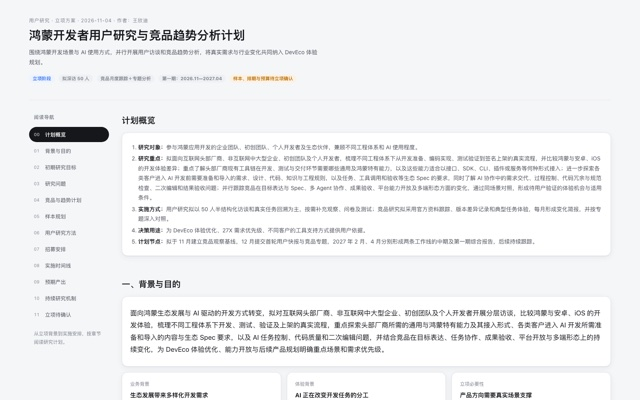
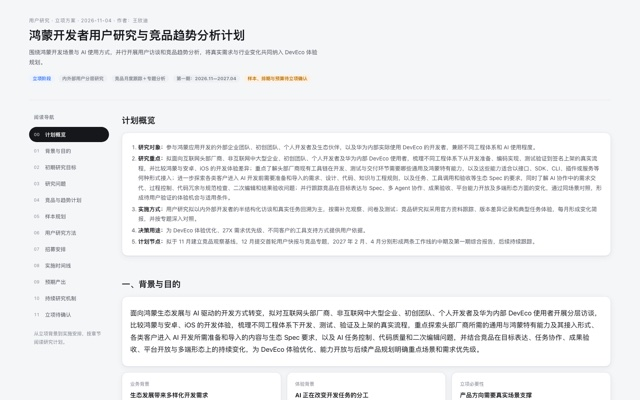
docs: plan flexible samples including internal Huawei developers

diff --git a/analysis/user-research-plan/REPORT-鸿蒙开发者用户研究计划.html b/analysis/user-research-plan/REPORT-鸿蒙开发者用户研究计划.html
@@ -109,7 +109,7 @@ b{font-weight:600;color:var(--ink)}
   <div class="eyebrow">用户研究 · 立项方案 · 2026-11-04 · 作者：王欣迪</div>
   <h1>鸿蒙开发者用户研究与竞品趋势分析计划</h1>
   <p class="lede">围绕鸿蒙开发场景与 AI 使用方式，并行开展用户访谈和竞品趋势分析，将真实需求与行业变化共同纳入 DevEco 体验规划。</p>
-  <div class="status"><span class="pill p-blue">立项阶段</span><span class="pill p-mute">拟深访 50 人</span><span class="pill p-mute">竞品月度跟踪＋专题分析</span><span class="pill p-mute">第一期：2026.11—2027.04</span><span class="pill p-warn">样本、排期与预算待立项确认</span></div>
+  <div class="status"><span class="pill p-blue">立项阶段</span><span class="pill p-mute">内外部用户分层研究</span><span class="pill p-mute">竞品月度跟踪＋专题分析</span><span class="pill p-mute">第一期：2026.11—2027.04</span><span class="pill p-warn">样本、排期与预算待立项确认</span></div>
 </header>
 <div class="report-layout">
   <aside class="sidebar" aria-label="阅读导航">
@@ -139,9 +139,9 @@ b{font-weight:600;color:var(--ink)}
   <section aria-labelledby="summary">
   <h2 id="summary">计划概览</h2>
   <div class="card summary"><ol>
-    <li><b>研究对象：</b>参与鸿蒙应用开发的企业团队、初创团队、个人开发者及生态伙伴，兼顾不同工程体系和 AI 使用程度。</li>
-    <li><b>研究重点：</b>拟面向互联网头部厂商、非互联网中大型企业、初创团队及个人开发者，梳理不同工程体系下从开发准备、编码实现、测试验证到签名上架的真实流程，并比较鸿蒙与安卓、iOS 的开发体验差异；重点了解头部厂商现有工具链在开发、测试与交付环节需要哪些通用及鸿蒙特有能力，以及这些能力适合以接口、SDK、CLI、插件或服务等何种形式接入；进一步探索各类客户进入 AI 开发前需要准备和导入的需求、设计、代码、知识与工程规则，以及任务、工具调用和验收等生态 Spec 的要求，同时了解 AI 协作中的需求交代、过程控制、代码冗余与规范检查、二次编辑和结果验收问题；并行跟踪竞品在目标表达与 Spec、多 Agent 协作、成果验收、平台能力开放及多端形态方面的变化，通过同场景对照，形成待用户验证的体验机会与适用条件。</li>
-    <li><b>实施方式：</b>用户研究拟以 50 人半结构化访谈和真实任务回溯为主，按需补充观察、问卷及测试；竞品研究拟采用官方资料跟踪、版本差异记录和典型任务体验，每月形成变化简报，并按专题深入对照。</li>
+    <li><b>研究对象：</b>参与鸿蒙应用开发的外部企业团队、初创团队、个人开发者及生态伙伴，以及华为内部实际使用 DevEco 的开发者，兼顾不同工程体系和 AI 使用程度。</li>
+    <li><b>研究重点：</b>拟面向互联网头部厂商、非互联网中大型企业、初创团队、个人开发者及华为内部 DevEco 使用者，梳理不同工程体系下从开发准备、编码实现、测试验证到签名上架的真实流程，并比较鸿蒙与安卓、iOS 的开发体验差异；重点了解头部厂商现有工具链在开发、测试与交付环节需要哪些通用及鸿蒙特有能力，以及这些能力适合以接口、SDK、CLI、插件或服务等何种形式接入；进一步探索各类客户进入 AI 开发前需要准备和导入的需求、设计、代码、知识与工程规则，以及任务、工具调用和验收等生态 Spec 的要求，同时了解 AI 协作中的需求交代、过程控制、代码冗余与规范检查、二次编辑和结果验收问题；并行跟踪竞品在目标表达与 Spec、多 Agent 协作、成果验收、平台能力开放及多端形态方面的变化，通过同场景对照，形成待用户验证的体验机会与适用条件。</li>
+    <li><b>实施方式：</b>用户研究拟以内外部开发者的半结构化访谈和真实任务回溯为主，按需补充观察、问卷及测试；竞品研究拟采用官方资料跟踪、版本差异记录和典型任务体验，每月形成变化简报，并按专题深入对照。</li>
     <li><b>决策用途：</b>为 DevEco 体验优化、27X 需求优先级、不同客户的工具支持方式提供用户依据。</li>
     <li><b>计划节点：</b>拟于 11 月建立竞品观察基线，12 月提交首轮用户快报与竞品专题，2027 年 2 月、4 月分别形成两条工作线的中期及第一期综合报告，后续持续跟踪。</li>
   </ol></div>
@@ -149,7 +149,7 @@ b{font-weight:600;color:var(--ink)}
 
   <section aria-labelledby="background">
   <h2 id="background">一、背景与目的</h2>
-  <div class="card summary"><p class="purpose">面向鸿蒙生态发展与 AI 驱动的开发方式转变，拟对互联网头部厂商、非互联网中大型企业、初创团队及个人开发者开展分层访谈，比较鸿蒙与安卓、iOS 的开发体验，梳理不同工程体系下开发、测试、验证及上架的真实流程，重点探索头部厂商所需的通用与鸿蒙特有能力及其接入形式、各类客户进入 AI 开发所需准备和导入的内容与生态 Spec 要求，以及 AI 任务控制、代码质量和二次编辑问题，并结合竞品在目标表达、任务协作、成果验收、平台开放与多端形态上的持续变化，为 DevEco 体验优化、能力开放与后续产品规划明确重点场景和需求优先级。</p></div>
+  <div class="card summary"><p class="purpose">面向鸿蒙生态发展与 AI 驱动的开发方式转变，拟对互联网头部厂商、非互联网中大型企业、初创团队、个人开发者及华为内部 DevEco 使用者开展分层访谈，比较鸿蒙与安卓、iOS 的开发体验，梳理不同工程体系下开发、测试、验证及上架的真实流程，重点探索头部厂商所需的通用与鸿蒙特有能力及其接入形式、各类客户进入 AI 开发所需准备和导入的内容与生态 Spec 要求，以及 AI 任务控制、代码质量和二次编辑问题，并结合竞品在目标表达、任务协作、成果验收、平台开放与多端形态上的持续变化，为 DevEco 体验优化、能力开放与后续产品规划明确重点场景和需求优先级。</p></div>
   <div class="grid3" style="margin-top:14px">
     <div class="card"><div class="k">业务背景</div><h4>生态发展带来多样化开发需求</h4><p>结合前期体验规划材料，需要进一步了解不同类型开发者的应用目标、工程条件和工具选择，明确 DevEco 可以支持的关键场景。</p></div>
     <div class="card"><div class="k">体验背景</div><h4>AI 正在改变开发任务的分工</h4><p>前期规划关注从人工指挥到 AI 承接任务的变化，本次拟了解开发者如何交代需求、跟进执行、检查代码与验收结果，以及哪些环节仍需人工处理。</p></div>
@@ -268,33 +268,35 @@ b{font-weight:600;color:var(--ink)}
   </section>
 
   <section aria-labelledby="sample">
-  <h2 id="sample">五、样本规划<small>第一期拟深访 50 人，分层配额待招募评估后确认</small></h2>
-  <div class="tw"><table>
-    <thead><tr><th>分层</th><th>招募范围</th><th class="num">拟访人数</th><th>重点覆盖</th></tr></thead><tbody>
-    <tr><th>头部企业</th><td>有鸿蒙项目的头部企业，覆盖互联网与重点行业客户。</td><td class="num">14</td><td>争取覆盖至少 8 家，每家最多 2 人；重点覆盖互联网头部厂商，同时兼顾行业客户；包含工具链 / AI 平台负责人和一线开发 / 测试。</td></tr>
-    <tr><th>中型企业</th><td>研发团队约 50–500 人，有鸿蒙专项或相关交付经验。</td><td class="num">12</td><td>兼顾互联网与传统行业、自研与外包协作方式。</td></tr>
-    <tr><th>初创 / 小团队</th><td>研发团队约 2–49 人，正在开发或已交付鸿蒙应用。</td><td class="num">10</td><td>覆盖应用与元服务、开发中与已上架项目。</td></tr>
-    <tr><th>个人 / 学习者</th><td>独立开发者、学生及转入鸿蒙的开发者。</td><td class="num">10</td><td>学生拟不超过 3 人；包含从安卓、iOS、Web 转入者。</td></tr>
-    <tr><th>生态伙伴</th><td>跨平台框架、三方库、开发服务及培训相关人员。</td><td class="num">4</td><td>兼顾不同类型伙伴，了解其服务对象与协作场景。</td></tr>
-    </tbody><tfoot><tr><th>合计</th><td>优先按企业层级归类，再按团队规模分层，避免重复计数。</td><td class="num">50</td><td>同一受访者参与多种方法时，深访人数只计一次。</td></tr></tfoot></table></div>
+  <h2 id="sample">五、样本规划<small>按研究问题分层，滚动补充关键场景</small></h2>
+  <p>第一期初步估算约 <b>30–40 位独立受访者</b>，其中外部开发者及生态伙伴约 24–30 人，华为内部实际使用 DevEco 的开发者约 6–10 人。该区间用于安排研究工作量，后续依据场景覆盖、反馈差异及新增问题情况调整。</p>
+  <div class="tw"><table><thead><tr><th>样本来源</th><th>招募范围</th><th class="num">初步估算</th><th>重点覆盖</th></tr></thead><tbody>
+  <tr><th>外部 · 头部企业</th><td>有鸿蒙项目的互联网头部厂商与重点行业企业。</td><td class="num">6–8 人</td><td>争取覆盖 3–4 家，兼顾工具链 / AI 平台负责人和一线开发；了解能力接入及流程衔接。</td></tr>
+  <tr><th>外部 · 中型企业</th><td>有独立开发团队、鸿蒙专项或相关交付经验的企业。</td><td class="num">6–8 人</td><td>兼顾互联网与传统行业、自研与外包协作，了解现有工程和日常使用。</td></tr>
+  <tr><th>外部 · 初创 / 小团队</th><td>正在开发或已交付鸿蒙应用的小团队。</td><td class="num">4–5 人</td><td>覆盖开发准备、AI 协作与验证交付，记录资源条件和替代办法。</td></tr>
+  <tr><th>外部 · 个人 / 学习者</th><td>独立开发者、学生及从其他平台转入鸿蒙的开发者。</td><td class="num">6–7 人</td><td>以有真实项目经历者为主，兼顾学习、开发中、已发布及暂停项目。</td></tr>
+  <tr><th>外部 · 生态伙伴</th><td>框架、三方库、开发服务或培训相关人员。</td><td class="num">约 2 人</td><td>按前期暴露的问题定向邀请，补充跨团队服务与协作视角。</td></tr>
+  <tr><th>内部 · 华为开发者</th><td>华为内部实际使用 DevEco 进行应用、元服务或相关项目开发的人员。</td><td class="num">6–10 人</td><td>跨业务团队招募，覆盖不同使用经验、项目阶段和 AI 使用程度；结合实际工程回溯、操作观察与后续复访。</td></tr>
+  </tbody></table></div>
+  <div class="card" style="margin-top:14px"><h4>估算依据与内部样本的使用方式</h4><p>先用少量试访校准提纲，再为各主要外部类型安排一组探索访谈；内部样本用于补充可持续观察和复访的真实场景。各组人数是工作量估算，不用于统计代表性推断；内部与外部反馈按来源分别标记，结合项目、使用经验、工具链与支持条件分析异同。</p><p class="note">内部招募以近期实际使用 DevEco 的经历为条件，记录使用版本、具体任务、使用频率及获得的内部支持。仅提供产品或实现意见的专家交流另行记录；同一人参与访谈、观察和原型测试时只计一名受访者。</p></div>
   <h3>横向覆盖要求</h3>
   <div class="grid2">
-    <div class="card"><h4>开发条件与经验</h4><ul><li>覆盖原生 ArkTS、跨平台框架及迁移开发经验。</li><li>争取至少 20 人具有安卓或 iOS 开发经验，用于平台对比。</li><li>覆盖手机与平板、2in1、穿戴、车机等设备项目。</li><li>覆盖已上架、开发中、暂停或放弃的项目阶段。</li></ul></div>
-    <div class="card"><h4>工具使用与团队角色</h4><ul><li>覆盖重度、轻度与基本不用 AI 的开发者，基本不用者拟至少 8 人。</li><li>覆盖 DevEco Studio、DevEco Code 与第三方 / 自研 Agent 使用者。</li><li>兼顾一线开发、技术负责人、测试及设计协作角色。</li><li>记录工程体系成熟度与地域，避免集中于单一社区或活跃人群。</li></ul></div>
+    <div class="card"><h4>开发条件与经验</h4><ul><li>覆盖原生 ArkTS、跨平台框架及迁移开发经验。</li><li>在内外部样本中兼顾具有安卓或 iOS 开发经验者，用于平台任务对比。</li><li>覆盖手机与平板、2in1、穿戴、车机等设备项目。</li><li>覆盖已上架、开发中、暂停或放弃的项目阶段。</li></ul></div>
+    <div class="card"><h4>工具使用与团队角色</h4><ul><li>覆盖重度、轻度与基本不用 AI 的开发者，按首轮覆盖情况补充。</li><li>覆盖 DevEco Studio、DevEco Code 与第三方 / 自研 Agent 使用者。</li><li>兼顾一线开发、技术负责人、测试及设计协作角色。</li><li>记录工程体系成熟度与地域，避免集中于单一社区或活跃人群。</li></ul></div>
   </div>
-  <p class="note">本研究以目的性分层招募理解场景与差异，50 人是第一期执行目标，不能代表全部鸿蒙开发者的需求比例。横向条件可交叉重叠，不与 50 人相加。前期访谈资料可作提纲参考；若追加复访，单独记录，新增样本目标仍为 50 人。</p>
+  <p class="note">采用目的性分层招募，优先覆盖关键任务和不同工作条件；横向条件可重叠。每批访谈后检查新增主题与未覆盖场景，再决定补招或复访。</p>
   </section>
 
   <section aria-labelledby="methods">
   <h2 id="methods">六、用户研究方法与访谈提纲</h2>
   <div class="tw"><table>
     <thead><tr><th>方法</th><th>拟定规模</th><th>研究用途</th><th>实施条件</th></tr></thead><tbody>
-    <tr><th>半结构化深访<small>主方法</small></th><td>50 人，每人 60–90 分钟。</td><td>以 RQ1–RQ8 为共用主线，按角色选择 RQ9–RQ11 专题，回溯近期真实项目。</td><td>远程为主，重点客户视情况面对面；征得同意后查看脱敏材料或共享屏幕。</td></tr>
+    <tr><th>半结构化深访<small>主方法</small></th><td>按样本规划滚动开展，每人 60–90 分钟。</td><td>以 RQ1–RQ8 为共用主线，按角色选择 RQ9–RQ11 专题，回溯近期真实项目。</td><td>远程为主，重点客户视情况面对面；征得同意后查看脱敏材料或共享屏幕。</td></tr>
     <tr><th>现场观察</th><td>拟 3 家企业，每家半天。</td><td>补充 RQ2、RQ4、RQ6、RQ9–RQ11 的工作流、工具调用与准备材料。</td><td>从深访客户中邀请，视客户授权与差旅资源安排。</td></tr>
-    <tr><th>日记研究</th><td>拟 8 人，连续 2 周。</td><td>跟踪 RQ2–RQ4 中的重复任务、人工介入与返工。</td><td>从 50 人中选择有持续开发任务、愿意记录者；先试填再确认负担。</td></tr>
+    <tr><th>日记研究</th><td>拟 8 人，连续 2 周。</td><td>跟踪 RQ2–RQ4 中的重复任务、人工介入与返工。</td><td>从已访谈的内外部用户中选择有持续开发任务、愿意记录者；先试填再确认负担。</td></tr>
     <tr><th>对照任务测试</th><td>拟 6 位双栈开发者。</td><td>进一步探索 RQ5 中的平台差异。</td><td>深访后选定可比任务，控制工具版本、任务难度与熟悉程度。</td></tr>
     <tr><th>问卷与数据分析</th><td>拟回收有效问卷 ≥500 份；后续视条件复测。</td><td>了解问题分布，探索满意度、任务耗时等测量口径。</td><td>基于首轮访谈形成题目；明确渠道、分层与数据权限后执行，单独统计问卷样本。</td></tr>
-    <tr><th>概念 / 原型测试</th><td>拟 12 人，包含于 50 人。</td><td>了解候选方案的理解程度与任务表现，支持 RQ7。</td><td>在探索访谈后开展；依用户问题选方案，记录不适用场景和新需求。</td></tr>
+    <tr><th>概念 / 原型测试</th><td>拟 8–12 人，优先邀请已访谈用户。</td><td>了解候选方案的理解程度与任务表现，支持 RQ7。</td><td>在探索访谈后开展；依用户问题选方案，记录不适用场景和新需求。</td></tr>
     <tr><th>客户共创</th><td>拟 2 场，每场 4–6 家企业。</td><td>进一步讨论 RQ6、RQ7、RQ9–RQ11 的能力边界、支持形式与规范。</td><td>依据阶段研究确定议题，视客户意愿和排期组织；参会规模单独记录。</td></tr>
     </tbody></table></div>
   <h3>单场访谈结构<small>以 75 分钟为例，可按受访者经验调整</small></h3>
@@ -319,13 +321,13 @@ b{font-weight:600;color:var(--ink)}
   <section aria-labelledby="recruit">
   <h2 id="recruit">七、招募与筛选安排</h2>
   <div class="grid2">
-    <div class="card"><h4>拟采用的招募渠道</h4><ul><li><b>企业客户：</b>与生态 BD、行业拓展和客户对接团队确认名单，邀请相关负责人及一线人员。</li><li><b>初创与个人：</b>通过开发者社区、活动、用户群及产品内入口招募，具体渠道待确认。</li><li><b>生态伙伴：</b>联系框架适配、三方库、服务商与培训机构。</li><li><b>招募服务：</b>与用研团队按月确认配额、筛选条件、报价和交付节奏。</li></ul></div>
-    <div class="card"><h4>筛选问卷拟收集的信息</h4><ul><li>公司行业、团队规模、角色与工程协作方式。</li><li>鸿蒙经验、项目类型、设备形态与发布状态。</li><li>其他平台经验、常用工具及近期 AI 使用频率。</li><li>近期真实开发任务和可分享的例子。</li><li>可参与时间、录音录屏与后续研究意愿；录屏意愿不作为深访的必要筛选条件。</li></ul></div>
+    <div class="card"><h4>拟采用的招募渠道</h4><ul><li><b>华为内部开发者：</b>通过内部业务团队和 DevEco 使用者群体招募，核实近期项目与真实使用经历；优先覆盖多个团队。</li><li><b>企业客户：</b>与生态 BD、行业拓展和客户对接团队确认名单，邀请相关负责人及一线人员。</li><li><b>初创与个人：</b>通过开发者社区、活动、用户群及产品内入口招募，具体渠道待确认。</li><li><b>生态伙伴：</b>联系框架适配、三方库、服务商与培训机构。</li><li><b>招募服务：</b>与用研团队按月确认配额、筛选条件、报价和交付节奏。</li></ul></div>
+    <div class="card"><h4>筛选问卷拟收集的信息</h4><ul><li>样本来源（华为内部 / 外部）、业务领域、团队规模、角色与工程协作方式。</li><li>鸿蒙经验、项目类型、设备形态与发布状态。</li><li>其他平台经验、常用工具及近期 AI 使用频率。</li><li>近期真实开发任务和可分享的例子。</li><li>可参与时间、录音录屏与后续研究意愿；录屏意愿不作为深访的必要筛选条件。</li></ul></div>
   </div>
   <div class="tw" style="margin-top:14px"><table>
     <thead><tr><th>环节</th><th>计划</th><th>说明</th></tr></thead><tbody>
-    <tr><th>预筛与预约</th><td>拟预约至少 72 人。</td><td>以约 30% 爽约或不合格作资源预留，作为估算假设；按实际到访率调整。</td></tr>
-    <tr><th>完成深访</th><td>目标 50 人。</td><td>每周滚动核查配额，优先补足不足人群；完成首批访谈后评估提纲和节奏。</td></tr>
+    <tr><th>预筛与预约</th><td>按当期场次滚动预约，并预留替补。</td><td>内部由团队协助排期，外部按渠道预筛；根据实际到访情况补约，避免一次性锁定总量。</td></tr>
+    <tr><th>完成深访</th><td>以关键人群和任务覆盖为准。</td><td>每周滚动核查配额，优先补足不足人群；完成首批访谈后评估提纲和节奏。</td></tr>
     <tr><th>参与激励</th><td>暂按个人 / 初创每场 300–500 元估算。</td><td>以用研统一标准为准；企业受访者按客户政策安排，日记研究另行估算。</td></tr>
     <tr><th>资料与参与约定</th><td>访谈前说明用途，确认知情同意。</td><td>按客户要求签保密约定；允许跳过敏感问题，以脱敏资料或口述替代。</td></tr>
     </tbody></table></div>
@@ -335,17 +337,16 @@ b{font-weight:600;color:var(--ink)}
   <h2 id="timeline">八、实施时间线<small>拟按 2026-11-02 至 2027-04-30 的 26 周窗口安排</small></h2>
   <p>用户研究与竞品趋势分析按下表并行推进，各节点均为计划目标；竞品月度专题见第四节，正式启动后根据样本、版本更新与方案准备情况调整。</p>
   <div class="gwrap"><div class="gantt" id="gantt" aria-label="研究阶段与里程碑甘特图"></div></div>
-  <div class="cum"><div><b>16 人</b><span>拟 12 月底累计完成</span></div><div><b>32 人</b><span>拟 1 月底累计完成</span></div><div><b>44 人</b><span>拟 3 月底累计完成</span></div><div><b>50 人</b><span>拟 4 月完成第一期</span></div></div>
   <div class="tw" style="margin-top:14px"><table>
-    <thead><tr><th>阶段</th><th>拟定时间</th><th>计划工作</th><th>新增深访配额<br>企 / 中 / 初 / 个 / 伙</th><th>拟交付内容</th></tr></thead><tbody>
+    <thead><tr><th>阶段</th><th>拟定时间</th><th>计划工作</th><th>样本推进重点</th><th>拟交付内容</th></tr></thead><tbody>
     <tr><th>准备与招募</th><td>11 月启动；滚动至 3 月。</td><td>确认方案、研究分工、提纲与筛选条件；试访、建立样本台账、联系客户。</td><td>—</td><td>研究方案、提纲、招募清单。</td></tr>
-    <tr><th>第一轮 · 探索与校准</th><td>11 月下旬—12 月。</td><td>先完成 2–3 场试访，校准措辞与时长；首批 6–8 人后检查主题覆盖，形成工具链草图与开发准备初始清单，再滚动补充企业及不同 AI 使用程度的样本。试访满足同一筛选与记录标准时计入 50 人。</td><td>16（6 / 4 / 3 / 3 / 0）</td><td>拟 12-11 提交首轮快报，说明实际样本、主题覆盖、提纲修订及仍需补充的问题。</td></tr>
+    <tr><th>第一轮 · 探索与校准</th><td>11 月下旬—12 月。</td><td>先完成 2–3 场试访，校准措辞与时长；首批 6–8 人后检查主题覆盖，形成工具链草图与开发准备初始清单，再滚动补充企业及不同 AI 使用程度的样本。试访满足同一筛选与记录标准时计入样本。</td><td>内外部试访，覆盖主要用户类型</td><td>拟 12-11 提交首轮快报，说明实际样本、主题覆盖、提纲修订及仍需补充的问题。</td></tr>
     <tr><th>问卷准备与基线</th><td>12 月—1 月。</td><td>根据访谈编制并试填问卷；确认指标口径、渠道与有效样本标准后发放。</td><td>单独统计问卷样本。</td><td>拟 1 月提交首轮测量说明及基线报告。</td></tr>
-    <tr><th>第二轮 · 深入</th><td>1 月。</td><td>继续分层深访；按条件开展现场观察、日记研究和对照任务测试。</td><td>16（4 / 4 / 3 / 3 / 2）</td><td>任务记录、分客户准备清单及能力接入专题材料。</td></tr>
+    <tr><th>第二轮 · 深入</th><td>1 月。</td><td>继续分层深访；按条件开展现场观察、日记研究和对照任务测试。</td><td>重点场景补充与内外部对照</td><td>任务记录、分客户准备清单及能力接入专题材料。</td></tr>
     <tr><th>中期整理</th><td>2 月。</td><td>考虑春节客户排期，重点整理资料、比较分层场景与需求，确认后续验证重点。</td><td>—</td><td>拟 02-26 提交用户研究与竞品趋势中期报告、候选机会及后续验证建议。</td></tr>
-    <tr><th>第三轮 · 方案探索</th><td>3 月。</td><td>补充分层访谈，依据前期问题开展概念 / 原型测试；方案未就绪时优先完成探索访谈。</td><td>12（2 / 3 / 3 / 3 / 1）</td><td>候选方案反馈、适用条件与待验证问题。</td></tr>
-    <tr><th>第四轮 · 补充与汇总</th><td>4 月。</td><td>补足样本，视条件开展客户共创与问卷复测，完成第一期综合分析。</td><td>6（2 / 1 / 1 / 1 / 1）</td><td>拟 04-30 提交用户研究与竞品趋势综合报告及规划建议。</td></tr>
-    </tbody><tfoot><tr><th>深访合计</th><td colspan="2">原型测试参与者包含于深访样本；其他方法分别记录参与规模。</td><td>50（14 / 12 / 10 / 10 / 4）</td><td>分阶段形成研究依据。</td></tr></tfoot></table></div>
+    <tr><th>第三轮 · 方案探索</th><td>3 月。</td><td>补充分层访谈，依据前期问题开展概念 / 原型测试；方案未就绪时优先完成探索访谈。</td><td>优先复访，补充候选方案目标用户</td><td>候选方案反馈、适用条件与待验证问题。</td></tr>
+    <tr><th>第四轮 · 补充与汇总</th><td>4 月。</td><td>补足样本，视条件开展客户共创与问卷复测，完成第一期综合分析。</td><td>按证据缺口定向补招 / 复访</td><td>拟 04-30 提交用户研究与竞品趋势综合报告及规划建议。</td></tr>
+    </tbody><tfoot><tr><th>样本管理</th><td colspan="4">按内外部来源、用户类型和任务覆盖跟踪；同一人参与多种方法不重复计数，复访场次单独记录。</td></tr></tfoot></table></div>
   </section>
 
   <section aria-labelledby="deliver">
@@ -365,9 +366,9 @@ b{font-weight:600;color:var(--ink)}
     <tr><th>测量方案与阶段报告</th><td>候选指标、测量口径、数据条件、实际采集结果和待补问题。</td><td>为后续基线、目标讨论和复测建立一致口径。</td></tr>
     </tbody></table></div>
   <h3>分析方式与研究完成标准</h3>
-  <div class="card"><ol><li><b>整理事件证据：</b>按“用户类型—任务情境—实际行为—遇到的问题—影响—现有办法”整理记录，关联脱敏受访者编号与原始证据。</li><li><b>归纳主题并比较差异：</b>先从材料归纳主题，再对照已有规划；比较团队类型、工程成熟度与 AI 使用程度，保留反例和分歧。</li><li><b>判断证据充分程度：</b>标记单例、多位受访者重复出现及观察 / 数据支持情况；受访者提及人数与事件次数分开记录，不推算总体比例。</li><li><b>形成决策建议：</b>综合问题影响、发生条件、紧迫性与现有解决成本，与产品、设计共同讨论；证据不足的议题进入后续研究。</li><li><b>检查研究覆盖：</b>核心问题均有可追溯记录；关键分层的缺口与差异有说明。连续数场没有新增重要主题时，结合分层覆盖评估主题是否充分，并优先补招尚不清楚的场景。</li></ol><p class="note">访谈的完成标准是支持决策的证据质量和覆盖程度。候选方案未获认同、用户没有相关需求等情况同样纳入交付。</p></div>
+  <div class="card"><ol><li><b>整理事件证据：</b>按“内外部来源—用户类型—任务情境—实际行为—遇到的问题—影响—现有办法”整理记录，关联脱敏受访者编号与原始证据。</li><li><b>归纳主题并比较差异：</b>先从材料归纳主题，再对照已有规划；比较团队类型、工程成熟度与 AI 使用程度，保留反例和分歧。</li><li><b>判断证据充分程度：</b>标记单例、多位受访者重复出现及观察 / 数据支持情况；受访者提及人数与事件次数分开记录，不推算总体比例。</li><li><b>形成决策建议：</b>综合问题影响、发生条件、紧迫性与现有解决成本，与产品、设计共同讨论；证据不足的议题进入后续研究。</li><li><b>检查研究覆盖：</b>核心问题均有可追溯记录；关键分层的缺口与差异有说明。连续数场没有新增重要主题时，结合分层覆盖评估主题是否充分，并优先补招尚不清楚的场景。</li></ol><p class="note">访谈的完成标准是支持决策的证据质量和覆盖程度。候选方案未获认同、用户没有相关需求等情况同样纳入交付。</p></div>
   <h3 id="outputs">交付节奏与资料要求</h3>
-  <div class="grid3"><div class="card"><h4>每场访谈后</h4><ul><li>整理脱敏记录、任务摘要和待追问事项。</li><li>区分用户原话、观察事实与研究解释。</li><li>回到录音或原始记录核对，保留证据索引。</li></ul></div><div class="card"><h4>每两周 / 每批样本</h4><ul><li>更新配额完成情况与问题清单。</li><li>记录反例、分歧与新出现的主题。</li><li>与产品、设计同步，并调整下一轮追问。</li></ul></div><div class="card"><h4>阶段报告</h4><ul><li>列明实际样本与方法覆盖。</li><li>区分已观察现象、解释和待验证问题。</li><li>说明可支持的决策与后续研究需求。</li></ul></div></div>
+  <div class="grid3"><div class="card"><h4>每场访谈后</h4><ul><li>整理脱敏记录、任务摘要和待追问事项。</li><li>区分用户原话、观察事实与研究解释。</li><li>回到录音或原始记录核对，保留证据索引。</li></ul></div><div class="card"><h4>每两周 / 每批样本</h4><ul><li>更新内外部样本覆盖与问题清单。</li><li>记录反例、分歧与新出现的主题。</li><li>与产品、设计同步，并调整下一轮追问。</li></ul></div><div class="card"><h4>阶段报告</h4><ul><li>列明实际样本与方法覆盖。</li><li>区分已观察现象、解释和待验证问题。</li><li>说明可支持的决策与后续研究需求。</li></ul></div></div>
   </section>
 
   <section aria-labelledby="ongoing">
@@ -379,7 +380,7 @@ b{font-weight:600;color:var(--ink)}
 
   <section aria-labelledby="open">
   <h2 id="open">立项待确认事项</h2>
-  <div class="card"><ol><li>明确用研、产品、设计与客户团队的接口人和投入人力。</li><li>确认第一期 50 人目标、分层比例与重点客户覆盖范围。</li><li>确认招募渠道、服务报价、激励标准与预算来源。</li><li>确认正式启动时间及 12 月、2 月、4 月阶段交付节点。</li><li>明确现场观察、问卷、日记研究及原型测试的执行条件。</li><li>确认资料保存、客户授权、反馈方式与后续复访机制。</li><li>确认竞品跟踪名单、专题分工、可体验版本及月度交付节奏。</li></ol></div>
+  <div class="card"><ol><li>明确用研、产品、设计与客户团队的接口人和投入人力。</li><li>确认初步样本区间、内部开发者招募渠道及外部重点客户覆盖范围。</li><li>确认招募渠道、服务报价、激励标准与预算来源。</li><li>确认正式启动时间及 12 月、2 月、4 月阶段交付节点。</li><li>明确现场观察、问卷、日记研究及原型测试的执行条件。</li><li>确认资料保存、客户授权、反馈方式与后续复访机制。</li><li>确认竞品跟踪名单、专题分工、可体验版本及月度交付节奏。</li></ol></div>
   </section>
   </main>
 </div>
@@ -395,13 +396,13 @@ b{font-weight:600;color:var(--ink)}
     ['0 准备',1,2,'c-mute','方案'],
     ['招募（滚动）',2,22,'c-warn','招募'],
     ['竞品基线与月度跟踪',1,26,'c-pur','基线 / 变化简报 / 五专题对照'],
-    ['第一波深访 <small>16</small>',4,8,'c-blue','探索访谈'],
+    ['第一轮探索',4,8,'c-blue','探索访谈'],
     ['问卷与基线 <small>≥500</small>',5,13,'c-green','基线准备'],
-    ['第二波深访 <small>16</small>',10,13,'c-blue','+ 现场 3 家'],
+    ['第二轮深入',10,13,'c-blue','+ 现场 3 家'],
     ['日记研究 <small>8</small>',11,12,'c-pur','2 周'],
     ['中期整理',14,17,'c-mute','聚类'],
-    ['第三波原型测试 <small>12</small>',18,22,'c-blue','方案探索'],
-    ['第四波补缺 <small>6</small>',23,25,'c-blue','+ 共创会'],
+    ['第三轮方案测试',18,22,'c-blue','方案探索'],
+    ['第四轮补充',23,25,'c-blue','+ 共创会'],
     ['问卷复测与终报',24,26,'c-green','终报'],
   ];
   rows.forEach(([l,a,b,c,t],i)=>{

diff --git a/site/catalog.js b/site/catalog.js
@@ -422,7 +422,7 @@ window.DEVECO_CATALOG = {
       items: [
         {
           title: '鸿蒙开发者用户研究与竞品趋势分析计划', subtitle: 'HarmonyOS Developer Research Plan · Nov 2026 – Apr 2027',
-          desc: '用户访谈与竞品趋势分析并行的立项计划：覆盖分客户开发流程、头部厂商能力接入、AI 开发准备与 Spec、任务控制及质量验收；以 1028 版规划材料与启动页专题为依据，规划目标表达、任务协作、成果验收、平台开放及多端形态五类竞品分析，配套 50 人样本、月度跟踪、半年排期与阶段交付。',
+          desc: '用户访谈与竞品趋势分析并行的立项计划：覆盖分客户开发流程、头部厂商能力接入、AI 开发准备与 Spec、任务控制及质量验收；以 1028 版规划材料与启动页专题为依据，规划目标表达、任务协作、成果验收、平台开放及多端形态五类竞品分析，配套内外部开发者样本规划、月度跟踪、半年排期与阶段交付。',
           view: 'doc', date: '2026-11-04', href: 'analysis/user-research-plan/REPORT-鸿蒙开发者用户研究计划.html',
           links: [{ label: '竞品趋势计划', href: 'analysis/user-research-plan/REPORT-鸿蒙开发者用户研究计划.html#competition' }, { label: '研究问题', href: 'analysis/user-research-plan/REPORT-鸿蒙开发者用户研究计划.html#diff' }, { label: '预期产出', href: 'analysis/user-research-plan/REPORT-鸿蒙开发者用户研究计划.html#deliver' }, { label: '分层样本', href: 'analysis/user-research-plan/REPORT-鸿蒙开发者用户研究计划.html#sample' }, { label: '时间线', href: 'analysis/user-research-plan/REPORT-鸿蒙开发者用户研究计划.html#timeline' }],
           tags: ['竞品趋势', '用户研究', '访谈计划', '立项方案', '大厂样本', '招募', '时间线'],
